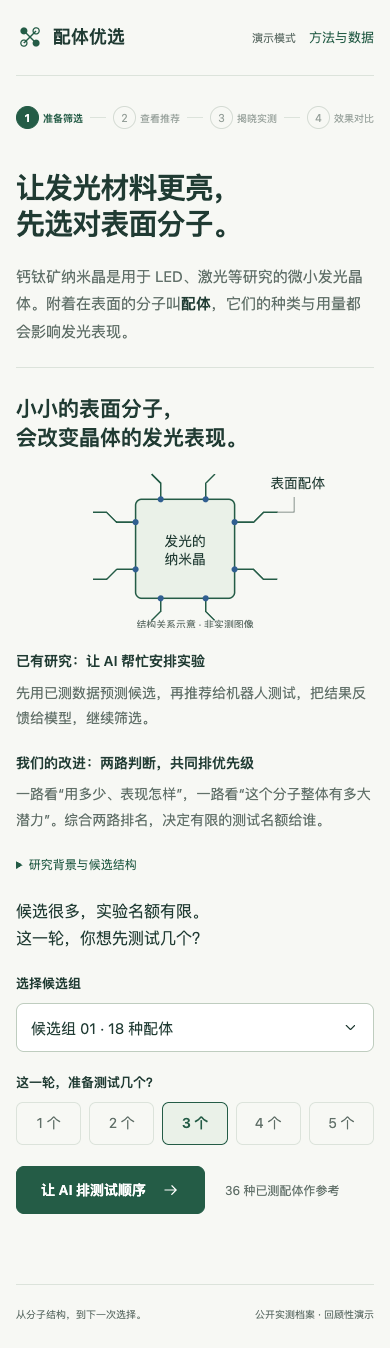
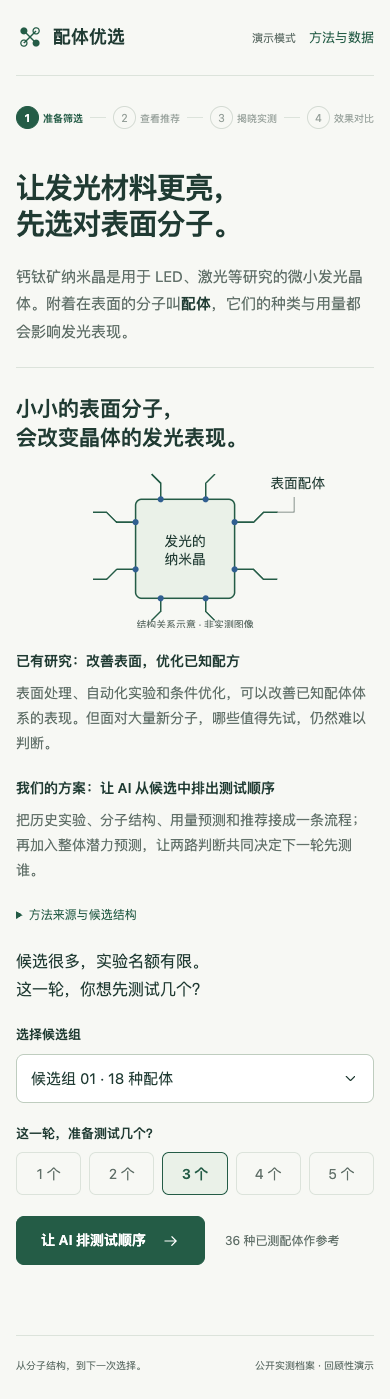
Frame scientific background and adopted screening pipeline clearly

diff --git a/demo/final/index.html b/demo/final/index.html
@@ -63,7 +63,7 @@ h1,h2,h3,p{margin-top:0}h1{font-size:clamp(31px,3.3vw,46px);line-height:1.25;let
     down:'<svg viewBox="0 0 24 24" fill="none" aria-hidden="true"><path d="m6 9 6 6 6-6" stroke="currentColor" stroke-width="1.6" stroke-linecap="round" stroke-linejoin="round"/></svg>',
     check:'<svg viewBox="0 0 20 20" fill="none" aria-hidden="true"><path d="m4 10 4 4 8-8" stroke="currentColor" stroke-width="1.7" stroke-linecap="round" stroke-linejoin="round"/></svg>'
   };
-  const META={random:{name:'随机选择',color:'#697269'},paired_RF:{name:'既有筛选基线',color:'#78617e'},paired_RF_CI:{name:'基线探索规则',color:'#78617e'},paired_ET:{name:'只看用量曲线',color:'#315f91'},direct_Q_ET:{name:'只看整体潜力',color:'#9b532f'},equal_rank:{name:'双路综合推荐',color:'#245c46'}};
+  const META={random:{name:'随机选择',color:'#697269'},paired_RF:{name:'基础筛选流程',color:'#78617e'},paired_RF_CI:{name:'基线探索规则',color:'#78617e'},paired_ET:{name:'只看用量曲线',color:'#315f91'},direct_Q_ET:{name:'只看整体潜力',color:'#9b532f'},equal_rank:{name:'双路综合推荐',color:'#245c46'}};
   const DISPLAY=['random','paired_RF','paired_ET','direct_Q_ET','equal_rank'];
   const steps=['准备筛选','查看推荐','揭晓实测','效果对比'];
   const state={screen:'setup',pool:D.pools.find(p=>p.id===D.default_pool),budget:D.default_budget,selected:0,order:null,reached:0,scope:'all',token:0,fast:false};
@@ -83,7 +83,7 @@ h1,h2,h3,p{margin-top:0}h1{font-size:clamp(31px,3.3vw,46px);line-height:1.25;let
     $('stepper').innerHTML=steps.map((label,i)=>`${i?`<span class="step-line ${i<=current?'done':''}" aria-hidden="true"></span>`:''}<button class="step-item ${i<current?'done':''}" data-step="${i}" ${i===current?'aria-current="step"':''} ${busy()||i>state.reached?'disabled':''}><span class="step-number">${i+1}</span>${label}</button>`).join('');
   }
   function preview(){
-    return `<div class="science-story"><h2>小小的表面分子，<br>会改变晶体的发光表现。</h2><svg class="surface-diagram" viewBox="0 0 470 215" role="img" aria-label="示意：配体附着在纳米晶表面。它们的种类与用量会影响发光表现。"><rect x="157" y="45" width="130" height="130" rx="8" fill="#eaf1e8" stroke="#245c46" stroke-width="2"/><g stroke="#245c46" stroke-width="2" fill="none"><path d="M157 75h-25l-13-13h-18M157 137h-25l-13 13h-18M190 45V24l-12-12M249 45V24l12-12M287 75h25l13-13h18M287 137h25l13 13h18M190 175v17l-12 12M249 175v17l12 12"/></g><g fill="#315f91"><circle cx="157" cy="75" r="4"/><circle cx="157" cy="137" r="4"/><circle cx="190" cy="45" r="4"/><circle cx="249" cy="45" r="4"/><circle cx="287" cy="75" r="4"/><circle cx="287" cy="137" r="4"/><circle cx="190" cy="175" r="4"/><circle cx="249" cy="175" r="4"/></g><text x="222" y="106" text-anchor="middle">发光的</text><text x="222" y="130" text-anchor="middle">纳米晶</text><path d="M343 62h22v-20" fill="none" stroke="#617069"/><text x="370" y="30" text-anchor="middle">表面配体</text><text class="diagram-note" x="235" y="214" text-anchor="middle">结构关系示意 · 非实测图像</text></svg><div class="research-path"><h3>已有研究：让 AI 帮忙安排实验</h3><p>先用已测数据预测候选，再推荐给机器人测试，把结果反馈给模型，继续筛选。</p><h3>我们的改进：两路判断，共同排优先级</h3><p>一路看“用多少、表现怎样”，一路看“这个分子整体有多大潜力”。综合两路排名，决定有限的测试名额给谁。</p></div><details class="background-source"><summary>研究背景与候选结构</summary><p>ALLiS 在约3万个候选分子中，用主动学习结合机器人筛选，累计测试93种配体。这里聚焦自动推荐环节，用90条完整公开曲线回放比较。</p><a href="https://doi.org/10.1021/acsnano.4c02094" target="_blank" rel="noreferrer">背景研究：ACS Nano，2024</a><div class="specimen-grid">${[0,1,2,3].map(i=>`<div class="specimen"><div class="molecule-preview" aria-hidden="true">${mol(i).svg}</div><div class="specimen-name"><span>${esc(mol(i).label)}</span><span>${esc(mol(i).formula)}</span></div></div>`).join('')}</div></details></div>`;
+    return `<div class="science-story"><h2>小小的表面分子，<br>会改变晶体的发光表现。</h2><svg class="surface-diagram" viewBox="0 0 470 215" role="img" aria-label="示意：配体附着在纳米晶表面。它们的种类与用量会影响发光表现。"><rect x="157" y="45" width="130" height="130" rx="8" fill="#eaf1e8" stroke="#245c46" stroke-width="2"/><g stroke="#245c46" stroke-width="2" fill="none"><path d="M157 75h-25l-13-13h-18M157 137h-25l-13 13h-18M190 45V24l-12-12M249 45V24l12-12M287 75h25l13-13h18M287 137h25l13 13h18M190 175v17l-12 12M249 175v17l12 12"/></g><g fill="#315f91"><circle cx="157" cy="75" r="4"/><circle cx="157" cy="137" r="4"/><circle cx="190" cy="45" r="4"/><circle cx="249" cy="45" r="4"/><circle cx="287" cy="75" r="4"/><circle cx="287" cy="137" r="4"/><circle cx="190" cy="175" r="4"/><circle cx="249" cy="175" r="4"/></g><text x="222" y="106" text-anchor="middle">发光的</text><text x="222" y="130" text-anchor="middle">纳米晶</text><path d="M343 62h22v-20" fill="none" stroke="#617069"/><text x="370" y="30" text-anchor="middle">表面配体</text><text class="diagram-note" x="235" y="214" text-anchor="middle">结构关系示意 · 非实测图像</text></svg><div class="research-path"><h3>已有研究：改善表面，优化已知配方</h3><p>表面处理、自动化实验和条件优化，可以改善已知配体体系的表现。但面对大量新分子，哪些值得先试，仍然难以判断。</p><h3>我们的方案：让 AI 从候选中排出测试顺序</h3><p>把历史实验、分子结构、用量预测和推荐接成一条流程；再加入整体潜力预测，让两路判断共同决定下一轮先测谁。</p></div><details class="background-source"><summary>方法来源与候选结构</summary><p>本方案以 ALLiS 的公开数据和成对预测筛选思路为基础，沿用历史实测→预测候选→安排测试的框架。我们实现并比较成对 ET、整体评分 ET 与等权排名融合，用90条完整曲线回放验证推荐效果。原研究的机器人实验由原作者完成。</p><a href="https://doi.org/10.1021/acsnano.4c02094" target="_blank" rel="noreferrer">基础方法来源：ACS Nano，2024</a><div class="specimen-grid">${[0,1,2,3].map(i=>`<div class="specimen"><div class="molecule-preview" aria-hidden="true">${mol(i).svg}</div><div class="specimen-name"><span>${esc(mol(i).label)}</span><span>${esc(mol(i).formula)}</span></div></div>`).join('')}</div></details></div>`;
   }
   function renderSetup(){
     $('stage').innerHTML=`<div class="screen setup"><div class="setup-copy"><h1>让发光材料更亮，<br>先选对表面分子。</h1><p class="subtitle">钙钛矿纳米晶是用于 LED、激光等研究的微小发光晶体。附着在表面的分子叫<strong>配体</strong>，它们的种类与用量都会影响发光表现。</p><p class="task-prompt">候选很多，实验名额有限。<br>这一轮，你想先测试几个？</p><div class="config"><div><label for="pool-select" class="field-label">选择候选组</label><div class="select-wrap"><select id="pool-select">${D.pools.map((p,i)=>`<option value="${p.id}" ${p.id===state.pool.id?'selected':''}>候选组 ${String(i+1).padStart(2,'0')} · ${p.test.length} 种配体</option>`).join('')}</select>${ICON.down}</div></div><div><span class="field-label" id="budget-label">这一轮，准备测试几个？</span><div class="budget-options" role="group" aria-labelledby="budget-label">${[1,2,3,4,5].map(n=>`<button class="budget-option" data-budget="${n}" aria-pressed="${n===state.budget}">${n} 个</button>`).join('')}</div></div></div><div class="setup-actions"><button class="primary" id="start-analysis">让 AI 排测试顺序 ${ICON.arrow}</button><span class="small">${state.pool.train.length} 种已测配体作参考</span></div></div><div id="preview">${preview()}</div></div>`;
@@ -121,11 +121,11 @@ h1,h2,h3,p{margin-top:0}h1{font-size:clamp(31px,3.3vw,46px);line-height:1.25;let
     const sums=global?Object.fromEntries(D.summary.map(r=>[r.method,r])):state.pool.metrics;
     const base=sums.paired_RF.AUR,ours=sums.equal_rank.AUR;
     const gain=base>1e-12?(base-ours)/base*100:null;
-    const insight=gain===null?`融合的平均筛选差距为 <strong>${fmt(ours,4)}</strong>`:`离最佳配体的差距<br>比既有基线 ${gain>=0?'缩小':'增加'} <strong>${fmt(Math.abs(gain),1)}%</strong>`;
+    const insight=gain===null?`融合的平均筛选差距为 <strong>${fmt(ours,4)}</strong>`:`离最佳配体的差距<br>比基础流程 ${gain>=0?'缩小':'增加'} <strong>${fmt(Math.abs(gain),1)}%</strong>`;
     const series=DISPLAY.map(m=>({name:META[m].name,color:META[m].color,emphasis:m==='equal_rank',dots:true,points:[1,2,3,4,5].map(b=>[b,sums[m]['B'+b]])}));
     const metricRow=m=>`<tr data-summary="${m}" class="${m==='equal_rank'?'ours':''}"><td>${META[m].name}</td><td>${fmt(sums[m].AUR,4)}</td><td>${fmt(sums[m].B3,4)}</td></tr>`;
     const c=D.comparisons.find(c=>c.baseline==='paired_ET');
-    $('stage').innerHTML=`<div class="screen"><div class="stage-top"><div><h1>把这次选择，放进对照里。</h1><p>${global?'全部 15 个固定候选组':'当前候选组'} · 相同测试名额，看谁选得更接近最佳</p></div><div class="stage-actions"><button class="secondary" data-reset>再筛选一组 ${ICON.arrow}</button></div></div><div class="compare-scope" role="group" aria-label="对比范围"><button class="scope-option" data-scope="all" aria-pressed="${global}">全部 15 组</button><button class="scope-option" data-scope="pool" aria-pressed="${!global}">当前候选组</button></div><div class="comparison-grid"><div class="comparison-plot"><h2>同样的测试名额，谁选得更好？</h2>${chart(series,{xLabel:'推荐预算 / 配体数',yLabel:'选到的最好表现 ↑',height:285,xTicks:5,domainX:[1,5]})}<div class="legend">${DISPLAY.map(m=>`<span style="color:${META[m].color}"><i></i>${META[m].name}</span>`).join('')}</div></div><div class="comparison-findings"><h2>${insight}</h2><p>同样测试1–5种配体，比较每种方法选到的最好表现。差距越小，说明越接近这组候选中真正最好的配体。</p><table class="metrics-table"><caption class="sr-only">${global?'全部候选组':'当前组'}方法比较</caption><thead><tr><th>选择方法</th><th>平均差距 ↓</th><th>测试 3 个<br>最好表现 ↑</th></tr></thead><tbody>${DISPLAY.map(metricRow).join('')}</tbody></table>${global?`<p class="fusion-contribution"><strong>综合判断多带来了什么？</strong>与单独看用量曲线相比，平均差距再缩小 ${fmt((1-sums.equal_rank.AUR/sums.paired_ET.AUR)*100,1)}%。只给3个名额时则略低 ${fmt((1-sums.equal_rank.B3/sums.paired_ET.B3)*100,2)}%，并非每个预算都占优。</p>`:''}<p class="comparison-scope-note">这里比较的是公开数据上、相同预算的推荐方法。基线采用已有研究的成对 RF 思路；整体差异也包含分子表示与模型变化。</p><details class="comparison-extra"><summary>指标怎么算？技术对照与稳定性</summary><p>例如：一组候选的最好得分是2.0，选到的最好得分是1.8，筛选差距就是0.2。表中取测试名额1–5的平均差距；Q由每条曲线最高4个实测点计算，越高越好。</p><p>既有基线＝成对 RF；用量路线＝成对 ET；整体路线＝直接评分 ET；综合推荐＝两路名次等权融合。</p>${global?`<p>融合对成对 ET 的平均差距缩小 ${fmt((1-sums.equal_rank.AUR/sums.paired_ET.AUR)*100,1)}%；15组中 ${c.wins_ties_losses[0]} 胜、${c.wins_ties_losses[1]} 平、${c.wins_ties_losses[2]} 负。预算3时，最好Q相对用量路线为 ${fmt((sums.equal_rank.B3/sums.paired_ET.B3-1)*100,2)}%。</p>`:'<p>单组表现可能高于或低于总体。切换“全部15组”查看总体结果。</p>'}<table class="metrics-table"><thead><tr><th>补充规则</th><th>平均差距 ↓</th><th>推荐 3 个最好 Q ↑</th></tr></thead><tbody>${metricRow('paired_RF_CI')}</tbody></table><p>对比使用平局随机期望，与上一页固定名单的单次结果可能不同。百分比是筛选差距的变化，不是材料发光增幅。</p></details></div></div><div class="comparison-foot"><p>公开实验记录回放验证，尚未进行新的材料实验。</p><button class="text-button" data-step="2">返回本轮实测</button></div></div>`;
+    $('stage').innerHTML=`<div class="screen"><div class="stage-top"><div><h1>把这次选择，放进对照里。</h1><p>${global?'全部 15 个固定候选组':'当前候选组'} · 相同测试名额，看谁选得更接近最佳</p></div><div class="stage-actions"><button class="secondary" data-reset>再筛选一组 ${ICON.arrow}</button></div></div><div class="compare-scope" role="group" aria-label="对比范围"><button class="scope-option" data-scope="all" aria-pressed="${global}">全部 15 组</button><button class="scope-option" data-scope="pool" aria-pressed="${!global}">当前候选组</button></div><div class="comparison-grid"><div class="comparison-plot"><h2>同样的测试名额，谁选得更好？</h2>${chart(series,{xLabel:'推荐预算 / 配体数',yLabel:'选到的最好表现 ↑',height:285,xTicks:5,domainX:[1,5]})}<div class="legend">${DISPLAY.map(m=>`<span style="color:${META[m].color}"><i></i>${META[m].name}</span>`).join('')}</div></div><div class="comparison-findings"><h2>${insight}</h2><p>同样测试1–5种配体，比较每种方法选到的最好表现。差距越小，说明越接近这组候选中真正最好的配体。</p><table class="metrics-table"><caption class="sr-only">${global?'全部候选组':'当前组'}方法比较</caption><thead><tr><th>选择方法</th><th>平均差距 ↓</th><th>测试 3 个<br>最好表现 ↑</th></tr></thead><tbody>${DISPLAY.map(metricRow).join('')}</tbody></table>${global?`<p class="fusion-contribution"><strong>综合判断多带来了什么？</strong>与单独看用量曲线相比，平均差距再缩小 ${fmt((1-sums.equal_rank.AUR/sums.paired_ET.AUR)*100,1)}%。只给3个名额时则略低 ${fmt((1-sums.equal_rank.B3/sums.paired_ET.B3)*100,2)}%，并非每个预算都占优。</p>`:''}<p class="comparison-scope-note">这里比较同一 AI 筛选流程的基础版与改进版：基础版使用成对 RF，改进版加入分子指纹、ET 模型和双路融合。整体收益包含这些变化。</p><details class="comparison-extra"><summary>指标怎么算？技术对照与稳定性</summary><p>例如：一组候选的最好得分是2.0，选到的最好得分是1.8，筛选差距就是0.2。表中取测试名额1–5的平均差距；Q由每条曲线最高4个实测点计算，越高越好。</p><p>基础流程＝成对 RF；用量路线＝成对 ET；整体路线＝直接评分 ET；综合推荐＝两路名次等权融合。</p>${global?`<p>融合对成对 ET 的平均差距缩小 ${fmt((1-sums.equal_rank.AUR/sums.paired_ET.AUR)*100,1)}%；15组中 ${c.wins_ties_losses[0]} 胜、${c.wins_ties_losses[1]} 平、${c.wins_ties_losses[2]} 负。预算3时，最好Q相对用量路线为 ${fmt((sums.equal_rank.B3/sums.paired_ET.B3-1)*100,2)}%。</p>`:'<p>单组表现可能高于或低于总体。切换“全部15组”查看总体结果。</p>'}<table class="metrics-table"><thead><tr><th>补充规则</th><th>平均差距 ↓</th><th>推荐 3 个最好 Q ↑</th></tr></thead><tbody>${metricRow('paired_RF_CI')}</tbody></table><p>对比使用平局随机期望，与上一页固定名单的单次结果可能不同。百分比是筛选差距的变化，不是材料发光增幅。</p></details></div></div><div class="comparison-foot"><p>公开实验记录回放验证，尚未进行新的材料实验。</p><button class="text-button" data-step="2">返回本轮实测</button></div></div>`;
   }
   function render(){renderStepper();if(state.screen==='setup')renderSetup();else if(state.screen==='recommended')renderRecommendation();else if(state.screen==='measured')renderRecommendation(true);else if(state.screen==='compare')renderComparison();$('stage').setAttribute('aria-busy',String(busy()));}
   function reset(){state.token++;state.screen='setup';state.reached=0;state.order=null;state.fast=false;render();focusStage();announce('已返回设置，结果已隐藏。');}

diff --git a/demo/final/app.js b/demo/final/app.js
@@ -7,7 +7,7 @@
     down:'<svg viewBox="0 0 24 24" fill="none" aria-hidden="true"><path d="m6 9 6 6 6-6" stroke="currentColor" stroke-width="1.6" stroke-linecap="round" stroke-linejoin="round"/></svg>',
     check:'<svg viewBox="0 0 20 20" fill="none" aria-hidden="true"><path d="m4 10 4 4 8-8" stroke="currentColor" stroke-width="1.7" stroke-linecap="round" stroke-linejoin="round"/></svg>'
   };
-  const META={random:{name:'随机选择',color:'#697269'},paired_RF:{name:'既有筛选基线',color:'#78617e'},paired_RF_CI:{name:'基线探索规则',color:'#78617e'},paired_ET:{name:'只看用量曲线',color:'#315f91'},direct_Q_ET:{name:'只看整体潜力',color:'#9b532f'},equal_rank:{name:'双路综合推荐',color:'#245c46'}};
+  const META={random:{name:'随机选择',color:'#697269'},paired_RF:{name:'基础筛选流程',color:'#78617e'},paired_RF_CI:{name:'基线探索规则',color:'#78617e'},paired_ET:{name:'只看用量曲线',color:'#315f91'},direct_Q_ET:{name:'只看整体潜力',color:'#9b532f'},equal_rank:{name:'双路综合推荐',color:'#245c46'}};
   const DISPLAY=['random','paired_RF','paired_ET','direct_Q_ET','equal_rank'];
   const steps=['准备筛选','查看推荐','揭晓实测','效果对比'];
   const state={screen:'setup',pool:D.pools.find(p=>p.id===D.default_pool),budget:D.default_budget,selected:0,order:null,reached:0,scope:'all',token:0,fast:false};
@@ -27,7 +27,7 @@
     $('stepper').innerHTML=steps.map((label,i)=>`${i?`<span class="step-line ${i<=current?'done':''}" aria-hidden="true"></span>`:''}<button class="step-item ${i<current?'done':''}" data-step="${i}" ${i===current?'aria-current="step"':''} ${busy()||i>state.reached?'disabled':''}><span class="step-number">${i+1}</span>${label}</button>`).join('');
   }
   function preview(){
-    return `<div class="science-story"><h2>小小的表面分子，<br>会改变晶体的发光表现。</h2><svg class="surface-diagram" viewBox="0 0 470 215" role="img" aria-label="示意：配体附着在纳米晶表面。它们的种类与用量会影响发光表现。"><rect x="157" y="45" width="130" height="130" rx="8" fill="#eaf1e8" stroke="#245c46" stroke-width="2"/><g stroke="#245c46" stroke-width="2" fill="none"><path d="M157 75h-25l-13-13h-18M157 137h-25l-13 13h-18M190 45V24l-12-12M249 45V24l12-12M287 75h25l13-13h18M287 137h25l13 13h18M190 175v17l-12 12M249 175v17l12 12"/></g><g fill="#315f91"><circle cx="157" cy="75" r="4"/><circle cx="157" cy="137" r="4"/><circle cx="190" cy="45" r="4"/><circle cx="249" cy="45" r="4"/><circle cx="287" cy="75" r="4"/><circle cx="287" cy="137" r="4"/><circle cx="190" cy="175" r="4"/><circle cx="249" cy="175" r="4"/></g><text x="222" y="106" text-anchor="middle">发光的</text><text x="222" y="130" text-anchor="middle">纳米晶</text><path d="M343 62h22v-20" fill="none" stroke="#617069"/><text x="370" y="30" text-anchor="middle">表面配体</text><text class="diagram-note" x="235" y="214" text-anchor="middle">结构关系示意 · 非实测图像</text></svg><div class="research-path"><h3>已有研究：让 AI 帮忙安排实验</h3><p>先用已测数据预测候选，再推荐给机器人测试，把结果反馈给模型，继续筛选。</p><h3>我们的改进：两路判断，共同排优先级</h3><p>一路看“用多少、表现怎样”，一路看“这个分子整体有多大潜力”。综合两路排名，决定有限的测试名额给谁。</p></div><details class="background-source"><summary>研究背景与候选结构</summary><p>ALLiS 在约3万个候选分子中，用主动学习结合机器人筛选，累计测试93种配体。这里聚焦自动推荐环节，用90条完整公开曲线回放比较。</p><a href="https://doi.org/10.1021/acsnano.4c02094" target="_blank" rel="noreferrer">背景研究：ACS Nano，2024</a><div class="specimen-grid">${[0,1,2,3].map(i=>`<div class="specimen"><div class="molecule-preview" aria-hidden="true">${mol(i).svg}</div><div class="specimen-name"><span>${esc(mol(i).label)}</span><span>${esc(mol(i).formula)}</span></div></div>`).join('')}</div></details></div>`;
+    return `<div class="science-story"><h2>小小的表面分子，<br>会改变晶体的发光表现。</h2><svg class="surface-diagram" viewBox="0 0 470 215" role="img" aria-label="示意：配体附着在纳米晶表面。它们的种类与用量会影响发光表现。"><rect x="157" y="45" width="130" height="130" rx="8" fill="#eaf1e8" stroke="#245c46" stroke-width="2"/><g stroke="#245c46" stroke-width="2" fill="none"><path d="M157 75h-25l-13-13h-18M157 137h-25l-13 13h-18M190 45V24l-12-12M249 45V24l12-12M287 75h25l13-13h18M287 137h25l13 13h18M190 175v17l-12 12M249 175v17l12 12"/></g><g fill="#315f91"><circle cx="157" cy="75" r="4"/><circle cx="157" cy="137" r="4"/><circle cx="190" cy="45" r="4"/><circle cx="249" cy="45" r="4"/><circle cx="287" cy="75" r="4"/><circle cx="287" cy="137" r="4"/><circle cx="190" cy="175" r="4"/><circle cx="249" cy="175" r="4"/></g><text x="222" y="106" text-anchor="middle">发光的</text><text x="222" y="130" text-anchor="middle">纳米晶</text><path d="M343 62h22v-20" fill="none" stroke="#617069"/><text x="370" y="30" text-anchor="middle">表面配体</text><text class="diagram-note" x="235" y="214" text-anchor="middle">结构关系示意 · 非实测图像</text></svg><div class="research-path"><h3>已有研究：改善表面，优化已知配方</h3><p>表面处理、自动化实验和条件优化，可以改善已知配体体系的表现。但面对大量新分子，哪些值得先试，仍然难以判断。</p><h3>我们的方案：让 AI 从候选中排出测试顺序</h3><p>把历史实验、分子结构、用量预测和推荐接成一条流程；再加入整体潜力预测，让两路判断共同决定下一轮先测谁。</p></div><details class="background-source"><summary>方法来源与候选结构</summary><p>本方案以 ALLiS 的公开数据和成对预测筛选思路为基础，沿用历史实测→预测候选→安排测试的框架。我们实现并比较成对 ET、整体评分 ET 与等权排名融合，用90条完整曲线回放验证推荐效果。原研究的机器人实验由原作者完成。</p><a href="https://doi.org/10.1021/acsnano.4c02094" target="_blank" rel="noreferrer">基础方法来源：ACS Nano，2024</a><div class="specimen-grid">${[0,1,2,3].map(i=>`<div class="specimen"><div class="molecule-preview" aria-hidden="true">${mol(i).svg}</div><div class="specimen-name"><span>${esc(mol(i).label)}</span><span>${esc(mol(i).formula)}</span></div></div>`).join('')}</div></details></div>`;
   }
   function renderSetup(){
     $('stage').innerHTML=`<div class="screen setup"><div class="setup-copy"><h1>让发光材料更亮，<br>先选对表面分子。</h1><p class="subtitle">钙钛矿纳米晶是用于 LED、激光等研究的微小发光晶体。附着在表面的分子叫<strong>配体</strong>，它们的种类与用量都会影响发光表现。</p><p class="task-prompt">候选很多，实验名额有限。<br>这一轮，你想先测试几个？</p><div class="config"><div><label for="pool-select" class="field-label">选择候选组</label><div class="select-wrap"><select id="pool-select">${D.pools.map((p,i)=>`<option value="${p.id}" ${p.id===state.pool.id?'selected':''}>候选组 ${String(i+1).padStart(2,'0')} · ${p.test.length} 种配体</option>`).join('')}</select>${ICON.down}</div></div><div><span class="field-label" id="budget-label">这一轮，准备测试几个？</span><div class="budget-options" role="group" aria-labelledby="budget-label">${[1,2,3,4,5].map(n=>`<button class="budget-option" data-budget="${n}" aria-pressed="${n===state.budget}">${n} 个</button>`).join('')}</div></div></div><div class="setup-actions"><button class="primary" id="start-analysis">让 AI 排测试顺序 ${ICON.arrow}</button><span class="small">${state.pool.train.length} 种已测配体作参考</span></div></div><div id="preview">${preview()}</div></div>`;
@@ -65,11 +65,11 @@
     const sums=global?Object.fromEntries(D.summary.map(r=>[r.method,r])):state.pool.metrics;
     const base=sums.paired_RF.AUR,ours=sums.equal_rank.AUR;
     const gain=base>1e-12?(base-ours)/base*100:null;
-    const insight=gain===null?`融合的平均筛选差距为 <strong>${fmt(ours,4)}</strong>`:`离最佳配体的差距<br>比既有基线 ${gain>=0?'缩小':'增加'} <strong>${fmt(Math.abs(gain),1)}%</strong>`;
+    const insight=gain===null?`融合的平均筛选差距为 <strong>${fmt(ours,4)}</strong>`:`离最佳配体的差距<br>比基础流程 ${gain>=0?'缩小':'增加'} <strong>${fmt(Math.abs(gain),1)}%</strong>`;
     const series=DISPLAY.map(m=>({name:META[m].name,color:META[m].color,emphasis:m==='equal_rank',dots:true,points:[1,2,3,4,5].map(b=>[b,sums[m]['B'+b]])}));
     const metricRow=m=>`<tr data-summary="${m}" class="${m==='equal_rank'?'ours':''}"><td>${META[m].name}</td><td>${fmt(sums[m].AUR,4)}</td><td>${fmt(sums[m].B3,4)}</td></tr>`;
     const c=D.comparisons.find(c=>c.baseline==='paired_ET');
-    $('stage').innerHTML=`<div class="screen"><div class="stage-top"><div><h1>把这次选择，放进对照里。</h1><p>${global?'全部 15 个固定候选组':'当前候选组'} · 相同测试名额，看谁选得更接近最佳</p></div><div class="stage-actions"><button class="secondary" data-reset>再筛选一组 ${ICON.arrow}</button></div></div><div class="compare-scope" role="group" aria-label="对比范围"><button class="scope-option" data-scope="all" aria-pressed="${global}">全部 15 组</button><button class="scope-option" data-scope="pool" aria-pressed="${!global}">当前候选组</button></div><div class="comparison-grid"><div class="comparison-plot"><h2>同样的测试名额，谁选得更好？</h2>${chart(series,{xLabel:'推荐预算 / 配体数',yLabel:'选到的最好表现 ↑',height:285,xTicks:5,domainX:[1,5]})}<div class="legend">${DISPLAY.map(m=>`<span style="color:${META[m].color}"><i></i>${META[m].name}</span>`).join('')}</div></div><div class="comparison-findings"><h2>${insight}</h2><p>同样测试1–5种配体，比较每种方法选到的最好表现。差距越小，说明越接近这组候选中真正最好的配体。</p><table class="metrics-table"><caption class="sr-only">${global?'全部候选组':'当前组'}方法比较</caption><thead><tr><th>选择方法</th><th>平均差距 ↓</th><th>测试 3 个<br>最好表现 ↑</th></tr></thead><tbody>${DISPLAY.map(metricRow).join('')}</tbody></table>${global?`<p class="fusion-contribution"><strong>综合判断多带来了什么？</strong>与单独看用量曲线相比，平均差距再缩小 ${fmt((1-sums.equal_rank.AUR/sums.paired_ET.AUR)*100,1)}%。只给3个名额时则略低 ${fmt((1-sums.equal_rank.B3/sums.paired_ET.B3)*100,2)}%，并非每个预算都占优。</p>`:''}<p class="comparison-scope-note">这里比较的是公开数据上、相同预算的推荐方法。基线采用已有研究的成对 RF 思路；整体差异也包含分子表示与模型变化。</p><details class="comparison-extra"><summary>指标怎么算？技术对照与稳定性</summary><p>例如：一组候选的最好得分是2.0，选到的最好得分是1.8，筛选差距就是0.2。表中取测试名额1–5的平均差距；Q由每条曲线最高4个实测点计算，越高越好。</p><p>既有基线＝成对 RF；用量路线＝成对 ET；整体路线＝直接评分 ET；综合推荐＝两路名次等权融合。</p>${global?`<p>融合对成对 ET 的平均差距缩小 ${fmt((1-sums.equal_rank.AUR/sums.paired_ET.AUR)*100,1)}%；15组中 ${c.wins_ties_losses[0]} 胜、${c.wins_ties_losses[1]} 平、${c.wins_ties_losses[2]} 负。预算3时，最好Q相对用量路线为 ${fmt((sums.equal_rank.B3/sums.paired_ET.B3-1)*100,2)}%。</p>`:'<p>单组表现可能高于或低于总体。切换“全部15组”查看总体结果。</p>'}<table class="metrics-table"><thead><tr><th>补充规则</th><th>平均差距 ↓</th><th>推荐 3 个最好 Q ↑</th></tr></thead><tbody>${metricRow('paired_RF_CI')}</tbody></table><p>对比使用平局随机期望，与上一页固定名单的单次结果可能不同。百分比是筛选差距的变化，不是材料发光增幅。</p></details></div></div><div class="comparison-foot"><p>公开实验记录回放验证，尚未进行新的材料实验。</p><button class="text-button" data-step="2">返回本轮实测</button></div></div>`;
+    $('stage').innerHTML=`<div class="screen"><div class="stage-top"><div><h1>把这次选择，放进对照里。</h1><p>${global?'全部 15 个固定候选组':'当前候选组'} · 相同测试名额，看谁选得更接近最佳</p></div><div class="stage-actions"><button class="secondary" data-reset>再筛选一组 ${ICON.arrow}</button></div></div><div class="compare-scope" role="group" aria-label="对比范围"><button class="scope-option" data-scope="all" aria-pressed="${global}">全部 15 组</button><button class="scope-option" data-scope="pool" aria-pressed="${!global}">当前候选组</button></div><div class="comparison-grid"><div class="comparison-plot"><h2>同样的测试名额，谁选得更好？</h2>${chart(series,{xLabel:'推荐预算 / 配体数',yLabel:'选到的最好表现 ↑',height:285,xTicks:5,domainX:[1,5]})}<div class="legend">${DISPLAY.map(m=>`<span style="color:${META[m].color}"><i></i>${META[m].name}</span>`).join('')}</div></div><div class="comparison-findings"><h2>${insight}</h2><p>同样测试1–5种配体，比较每种方法选到的最好表现。差距越小，说明越接近这组候选中真正最好的配体。</p><table class="metrics-table"><caption class="sr-only">${global?'全部候选组':'当前组'}方法比较</caption><thead><tr><th>选择方法</th><th>平均差距 ↓</th><th>测试 3 个<br>最好表现 ↑</th></tr></thead><tbody>${DISPLAY.map(metricRow).join('')}</tbody></table>${global?`<p class="fusion-contribution"><strong>综合判断多带来了什么？</strong>与单独看用量曲线相比，平均差距再缩小 ${fmt((1-sums.equal_rank.AUR/sums.paired_ET.AUR)*100,1)}%。只给3个名额时则略低 ${fmt((1-sums.equal_rank.B3/sums.paired_ET.B3)*100,2)}%，并非每个预算都占优。</p>`:''}<p class="comparison-scope-note">这里比较同一 AI 筛选流程的基础版与改进版：基础版使用成对 RF，改进版加入分子指纹、ET 模型和双路融合。整体收益包含这些变化。</p><details class="comparison-extra"><summary>指标怎么算？技术对照与稳定性</summary><p>例如：一组候选的最好得分是2.0，选到的最好得分是1.8，筛选差距就是0.2。表中取测试名额1–5的平均差距；Q由每条曲线最高4个实测点计算，越高越好。</p><p>基础流程＝成对 RF；用量路线＝成对 ET；整体路线＝直接评分 ET；综合推荐＝两路名次等权融合。</p>${global?`<p>融合对成对 ET 的平均差距缩小 ${fmt((1-sums.equal_rank.AUR/sums.paired_ET.AUR)*100,1)}%；15组中 ${c.wins_ties_losses[0]} 胜、${c.wins_ties_losses[1]} 平、${c.wins_ties_losses[2]} 负。预算3时，最好Q相对用量路线为 ${fmt((sums.equal_rank.B3/sums.paired_ET.B3-1)*100,2)}%。</p>`:'<p>单组表现可能高于或低于总体。切换“全部15组”查看总体结果。</p>'}<table class="metrics-table"><thead><tr><th>补充规则</th><th>平均差距 ↓</th><th>推荐 3 个最好 Q ↑</th></tr></thead><tbody>${metricRow('paired_RF_CI')}</tbody></table><p>对比使用平局随机期望，与上一页固定名单的单次结果可能不同。百分比是筛选差距的变化，不是材料发光增幅。</p></details></div></div><div class="comparison-foot"><p>公开实验记录回放验证，尚未进行新的材料实验。</p><button class="text-button" data-step="2">返回本轮实测</button></div></div>`;
   }
   function render(){renderStepper();if(state.screen==='setup')renderSetup();else if(state.screen==='recommended')renderRecommendation();else if(state.screen==='measured')renderRecommendation(true);else if(state.screen==='compare')renderComparison();$('stage').setAttribute('aria-busy',String(busy()));}
   function reset(){state.token++;state.screen='setup';state.reached=0;state.order=null;state.fast=false;render();focusStage();announce('已返回设置，结果已隐藏。');}

diff --git a/demo/final/SCIENTIFIC_CONTEXT.md b/demo/final/SCIENTIFIC_CONTEXT.md
@@ -28,3 +28,9 @@ Kim et al., *Active Learning of Ligands That Enhance Perovskite Nanocrystal Lumi
 ## 动画
 
 进度是演示节奏；在缓存预测上现场核对和复算排名。阶段百分比不代表训练工作量。正弦速度函数导数始终为正，保证不会倒退；分阶段不同权重与时长产生快慢变化。取消、跳过与减少动画设置继续有效。
+
+## 展示叙事调整
+
+首页“已有研究”指原论文引言讨论的表面处理、已知前驱体/配体体系的条件优化等背景，非将ALLiS另列为外部竞争项目。“我们的方案”覆盖采用并实现的AI筛选框架及其改进：历史实测与分子表示→成对预测→候选推荐，再加入直接评分和融合。方法来源展开区明确基础来自ALLiS，原作者的机器人实验不计为本团队成果。
+
+比较页相应使用“基础筛选流程”和“改进版”的表述；72.2%比较的是固定预算成对RF与本项目完整方案，不能解读成对人工试错、表面处理或实验条件优化方法的实证胜出。

diff --git a/demo/final/README.md b/demo/final/README.md
@@ -32,3 +32,5 @@ python3 scripts/build_demo_page.py
 GitHub Pages 在 `main` 的演示目录更新后自动发布；工作流先校验全部页面文件哈希。
 
 背景说明依据 Kim 等 ACS Nano 2024（10.1021/acsnano.4c02094）的引言与方法。正文把配体解释为附着在纳米晶表面的分子；最终比较分别交代相对固定预算 RF 基线的整体改善与融合相对曲线单模型的额外改善。进度使用分阶段不同时间和单调的正弦速度调制，约4.4秒，揭晓约1.75秒；跳过、取消与减少动画设置不变。
+
+展示叙事：已有研究介绍原论文的问题背景；我们的方案介绍采用的完整AI筛选流程及新增改进。来源在展开说明中保留。比较页为同一流程内基础版与改进版的对照，不把基础框架的原创归属或原作者实验改写成本项目成果。
